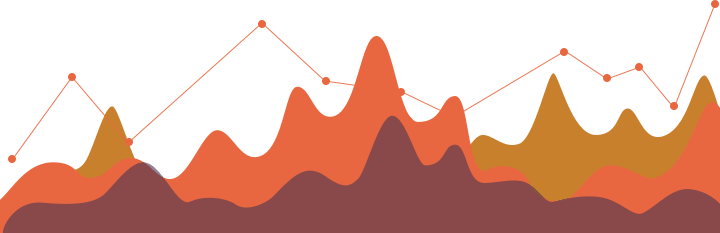
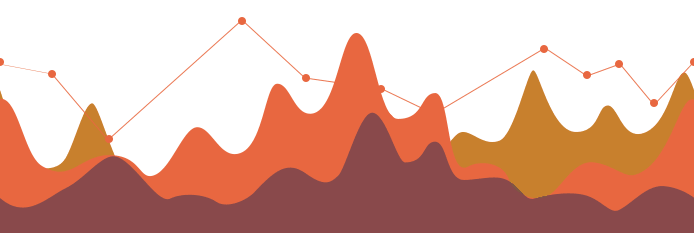
修改首界面

diff --git a/css/index.css b/css/index.css
@@ -1,60 +1,49 @@
+html,
 body {
+	height: 100%;
+	width: 100%;
 	background-color: #F3C04D;
 	margin: 0;
-}
-.bodyimage {
-	width: 85%;
-}
-.footimage {
-	width: 100%;
+	padding: 0;
 }
 div.body {
+	padding-top: 5%;
 	text-align: center;
 	width: 100%;
-	padding-top: 50px;
+	height: 55.4%;
+	box-sizing: border-box;
+}
+div.body img {
+	height: 100%;
 }
 div.container {
-	z-index: 99;
-	padding-top: 20px;
-	text-align: center;
+	margin-top: 14.4%;
 	width: 100%;
-	position: relative;
+	height: 8%;
+	box-sizing: border-box;
+	padding: 0 30%;
+}
+div.container button {
+	width: 100%;
+	height: 100%;
+	border: 0px;
+	border-radius: 30px;
+	background-color: #FD5359;
+	font-size: 1.2em;
+	color: #FFFFFF;
+	cursor: pointer;
 }
 div.foot {
-	width: 100%;
-	position: absolute;
-	bottom: 0;
-}
-div#about {
-	font-size: 2.5em;
-	width: 100%;
 	text-align: center;
-	position: absolute;
-	bottom: 4px;
-	color: #F0888D;
+	margin-top: 4.6%;
+	width: 100%;
+	height: 18.5%;
+	background-image: url(../images/image_game_bottom.png);
+	background-size: auto 100%;
+	display: table;
 }
-a.startgame {
-	z-index: 99;
-	width: auto;
-	display: block;
-	padding-top: 20px;
-	padding-bottom: 20px;
-	margin-left: 10%;
-	margin-right: 10%;
-	margin-top: 40px;
-	-webkit-border-radius: 45;
-	-moz-border-radius: 45;
-	border-radius: 45px;
-	border: 0;
-	text-shadow: 0px 1px 3px #c92f2f;
-	-webkit-box-shadow: 1px 3px 3px #ca3333;
-	-moz-box-shadow: 1px 3px 3px #ca3333;
-	box-shadow: 1px 3px 3px #ca3333;
-	color: #ffffff;
-	font-size: 3em;
-	background: #f45454;
-	text-decoration: none;
-}
-a.startgame:hover {
-	background-color: #ca3333;
+div.foot div {
+	display: table-cell;
+	vertical-align: bottom;
+	color: #F58A8F;
 }

diff --git a/html/game_kline_index.html b/html/game_kline_index.html
@@ -11,15 +11,15 @@
 
 <body>
 	<div class="body">
-		<img class="bodyimage" src="../images/image_game_center.png" alt="股头硬不硬">
-	</div>
-	<div class="foot">
-		<img class="footimage" src="../images/image_game_bottom.png" alt="优顾出品">
-		<div id="about">优顾出品</div>
+		<img src="../images/image_game_center.png" alt="股头硬不硬">
 	</div>
 	<div class="container">
-		<a class="startgame" href="game_kline_main.html">游戏开始</a>
+		<button href="game_kline_main.html">游戏开始</button>
 	</div>
+	<div class="foot">
+		<div>优顾出品</div>
+	</div>
+
 </body>
 
 </html>

diff --git a/css/main.css b/css/main.css
@@ -111,7 +111,7 @@ div.download>div {
 	width: 49%;
 	height: 100%;
 	background-color: #2E3535;
-	border-radius: 9px;
+	border-radius: 3px;
 	color: #E1E1E1;
 	padding: 1.2302284710018% 1.9444444444444%;
 	box-sizing: border-box;
